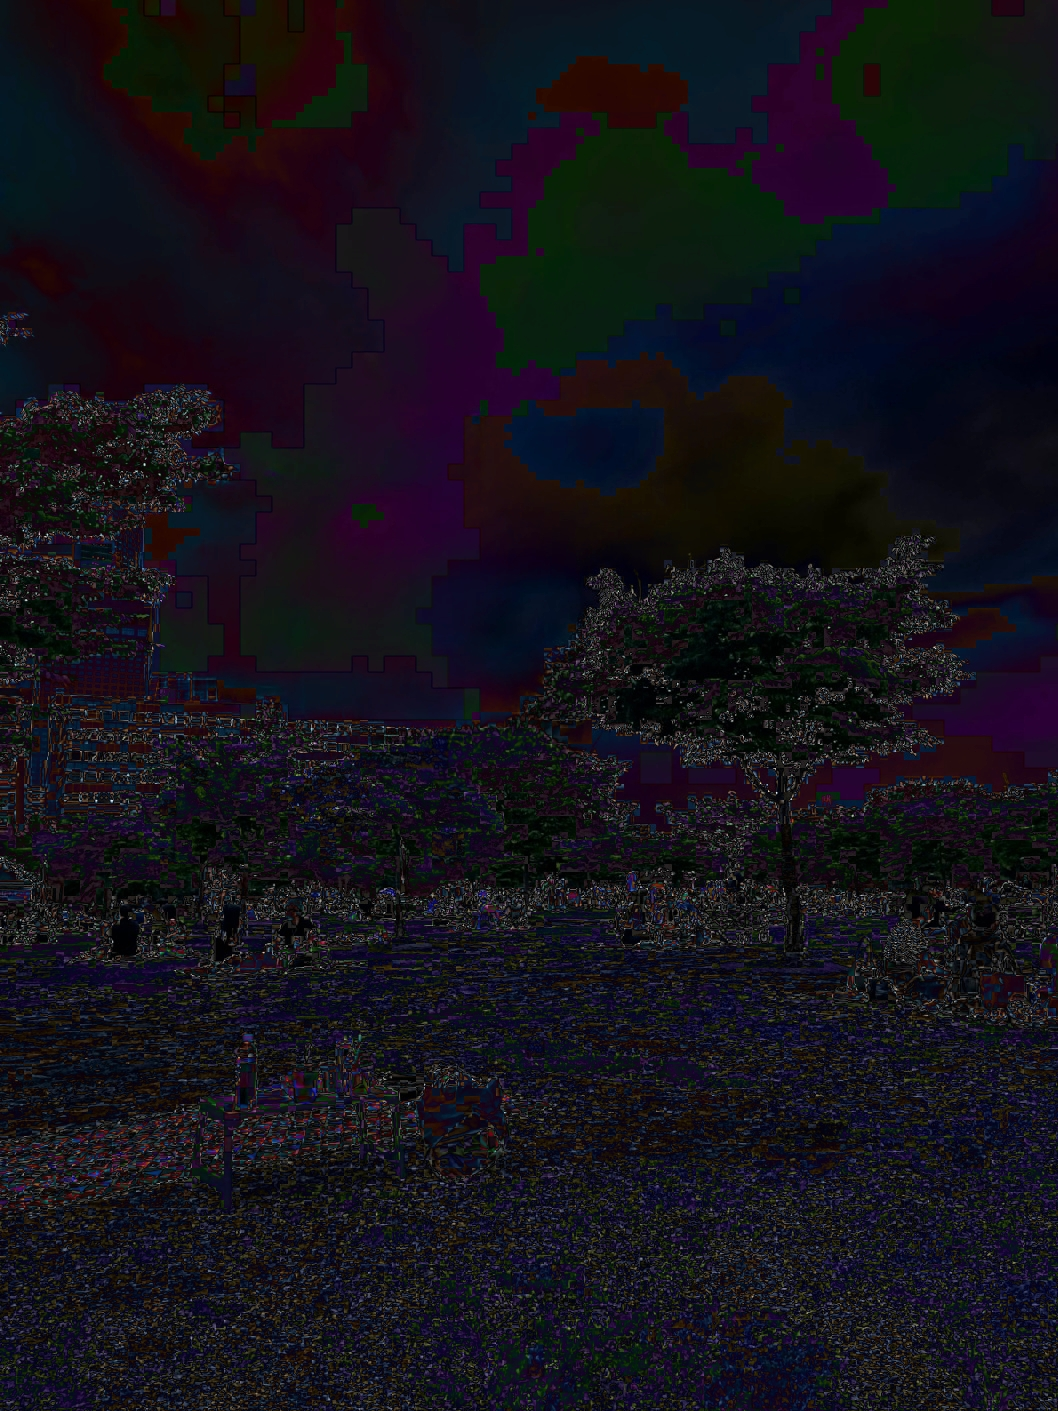
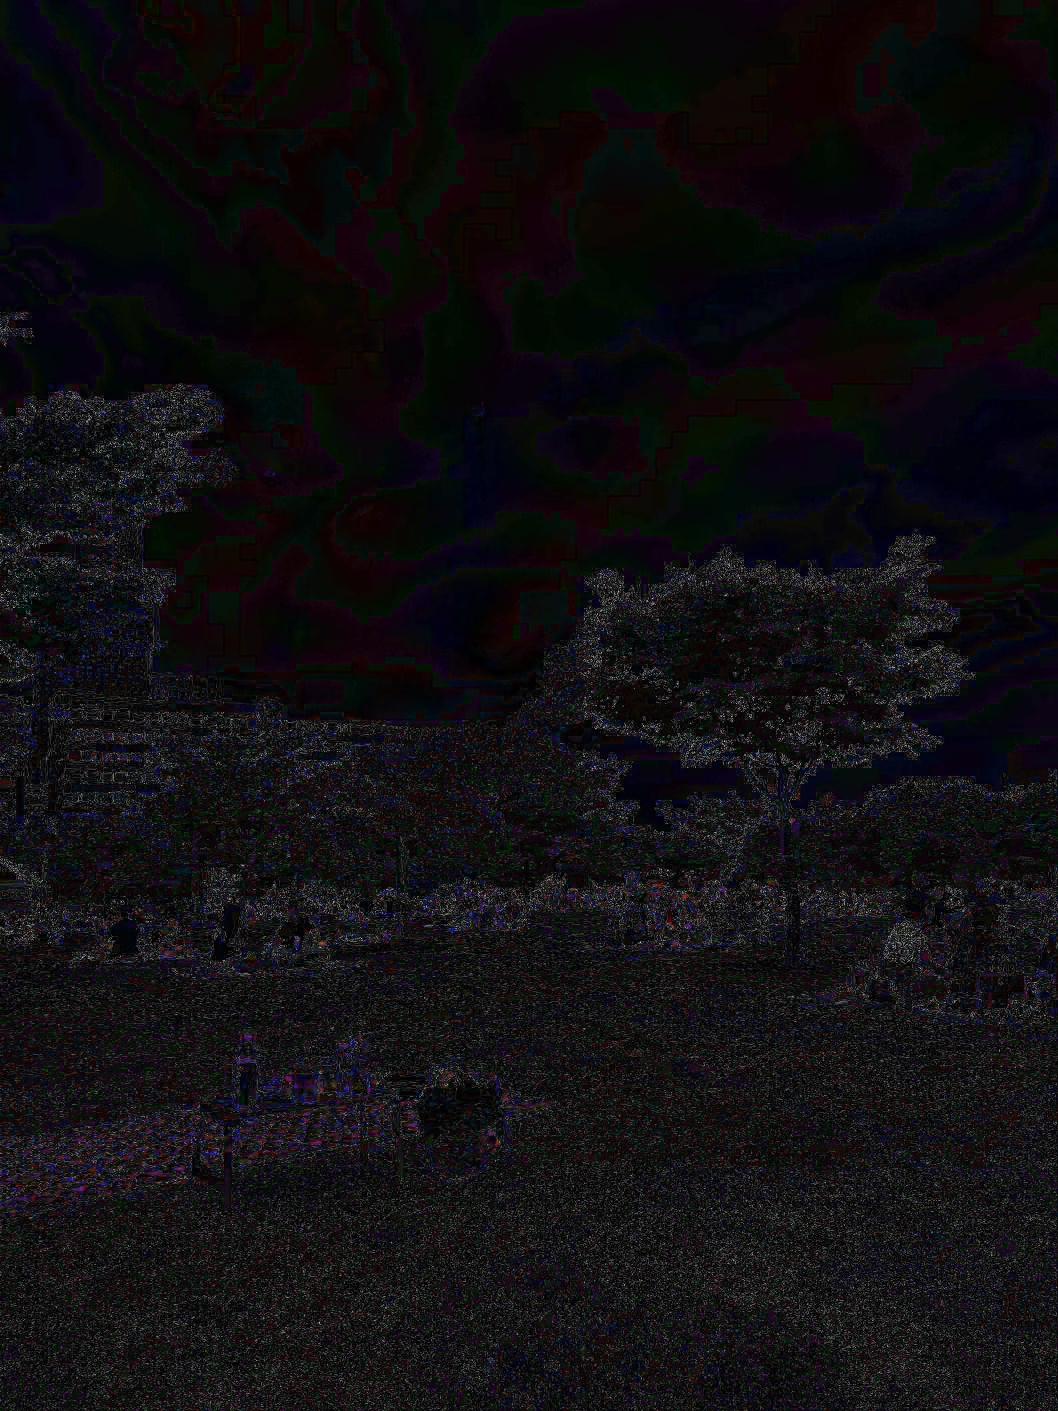
ADD level slides

diff --git a/main.py b/main.py
@@ -4,6 +4,8 @@ from Luminance_Gradient import Luminance_Gradient
 from PCA import PCA_compress_image
 import os
 from matplotlib import pyplot as plt
+from matplotlib.widgets import Slider
+
 
 def start():
     print("/$$$$$$$            /$$$$$$$     ")                                                                                                                                                                                          
@@ -27,12 +29,41 @@ def start():
     print("                                 \______/")
 
 
+
+
 start()
 path = "../13/PIC 008.jpg"
-ELA(path)
-Noise_Analysis(path)
+
 Luminance_Gradient(path)
-PCA_compress_image(path)
+
+
+
+def update(val):
+    sliderValue_ELA = ELA_Slider.val
+    print(sliderValue_ELA)
+    
+    ELA(path,int(sliderValue_ELA))
+    img1= plt.imread("./Output/ELA_"+filename)
+    plt.subplot(2,3,1),plt.imshow(img1,cmap = 'gray')
+    plt.title('ELA'), plt.xticks([]), plt.yticks([])
+    
+    sliderValue_NA = NA_Slider.val
+    print(sliderValue_NA)
+    
+    Noise_Analysis(path, int(sliderValue_NA))
+    img2= plt.imread("./Output/Noise_"+filename)
+    plt.subplot(2,3,4),plt.imshow(img2,cmap = 'gray')
+    plt.title('Noise-Analysis'), plt.xticks([]), plt.yticks([])
+
+    
+    sliderValue_PCA = PCA_Slider.val
+    print(sliderValue_PCA)
+    PCA_compress_image(path, int(sliderValue_PCA))
+    img4= plt.imread("./Output/PCA_"+filename)
+    plt.subplot(2,3,5),plt.imshow(img4,cmap = 'gray')
+    plt.title('Principle Component Analysis'), plt.xticks([]), plt.yticks([])
+
+
 
 
 filename = os.path.basename(path).split('/')[-1]
@@ -52,9 +83,34 @@ img3= plt.imread("./Output/Luminance_"+filename)
 plt.subplot(2,3,2),plt.imshow(img3,cmap = 'gray')
 plt.title('Luminance-Gradient'), plt.xticks([]), plt.yticks([])
 
+
+
 img4= plt.imread("./Output/PCA_"+filename)
 plt.subplot(2,3,5),plt.imshow(img4,cmap = 'gray')
 plt.title('Principle Component Analysis'), plt.xticks([]), plt.yticks([])
+
+
+
+ELAx_Slider = plt.axes([0.75, 0.75, 0.2, 0.05])
+ELA_Slider  = Slider(ELAx_Slider,'ELA slider', 0,100,  valinit=10)
+
+ELA_Slider.on_changed(update)
+
+
+
+
+
+NAx_Slider = plt.axes([0.75, 0.65, 0.2, 0.05])
+NA_Slider  = Slider(NAx_Slider,'NA slider', 0,100,  valinit=20)
+
+NA_Slider.on_changed(update)
+
+
+
+
+PCAx_Slider = plt.axes([0.75, 0.6, 0.2, 0.05])
+PCA_Slider  = Slider(PCAx_Slider,'PCA slider', 0,100,  valinit=10)
+PCA_Slider.on_changed(update)
 
 
 # img4= plt.imread("./Output/PCA_PIC 002.jpg")

diff --git a/ELA.py b/ELA.py
@@ -2,11 +2,14 @@ from PIL import Image, ImageChops, ImageEnhance
 import os
 
 
-def convert_to_ela_image(path, quality):
+def convert_to_ela_image(path, degree):
     filename = path
-    resaved_filename = filename.split('.')[0] + '.resaved.jpg'
+    resaved_filename = filename.split('/')[-1] + '.resaved.jpg'
     im = Image.open(filename).convert('RGB')
-    im.save(resaved_filename, 'JPEG', quality=quality)
+    
+    print(degree)
+
+    im.save(resaved_filename, 'JPEG', quality=degree)
     resaved_im = Image.open(resaved_filename)
     
     ela_im = ImageChops.difference(im, resaved_im)
@@ -20,7 +23,8 @@ def convert_to_ela_image(path, quality):
     
     return ela_im
 
-def ELA(path):
+def ELA(path, scale):
     name = os.path.basename(path).split('/')[-1]
-    img = convert_to_ela_image(path, 1)  #두번쨰인자조정
-    img.save('./Output/ELA_'+name,quality = 100)
+    degree = scale
+    img = convert_to_ela_image(path, degree)  #두번쨰인자조정
+    img.save('./Output/ELA_'+name, quality = 100)

diff --git a/Noise_Analysis.py b/Noise_Analysis.py
@@ -1,9 +1,9 @@
 from wand.image import Image #https://imagemagick.org/script/download.php#windows #pip install wand #https://www.geeksforgeeks.org/python-noise-function-in-wand/
 import os
 
-def Noise_Analysis(path):
+def Noise_Analysis(path, degree):
     filename = path
     name = os.path.basename(path).split('/')[-1]
     with Image(filename = filename) as img:
-        img.noise("laplacian", attenuate = 10.0)
+        img.noise("laplacian", attenuate = degree)
         img.save(filename= './Output/Noise_'+name)

diff --git a/PCA.py b/PCA.py
@@ -6,8 +6,8 @@ import os
 import skimage #pip install scikit-image
 
 
-def PCA_compress_image(path):
-    pca = PCA(n_components=100) #n_components
+def PCA_compress_image(path, degree):
+    pca = PCA(n_components=degree) #n_components
     image = skimage.io.imread(path)
     image = rgb2gray(image)
     image_compressed = pca.fit_transform(image)

diff --git a/Luminance_Gradient.py b/Luminance_Gradient.py
@@ -8,5 +8,5 @@ def Luminance_Gradient(path):
     filename = os.path.basename(path).split('/')[-1]
     img = cv.imread(name,0)
     laplacian = cv.Laplacian(img,cv.CV_64F)
-    sobelx = cv.Sobel(img, cv.CV_64F, 1,0, ksize=5)
+    sobelx = cv.Sobel(img, cv.CV_8U, 1, 0, ksize=5)
     cv.imwrite('./Output/Luminance_'+filename, sobelx)

diff --git a/README.md b/README.md
@@ -6,5 +6,10 @@
 ```
 pip install wand
 pip install Pillow
+pip install opencv-python
+pip install matplotlib
+pip install -U numpy
+pip install scikit-image
+pip install -U scikit-learn
 Install ImageMagick: https://imagemagick.org/script/download.php#windows 
 ```
